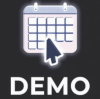
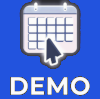
## 2.5.3
- [demo] change image preview, banner and icon

diff --git a/CHANGELOG.md b/CHANGELOG.md
@@ -1,3 +1,7 @@
+## 2.5.3
+
+- [demo] change image preview, banner and icon
+
 ## 2.5.2
 
 - [bug] remove all day event method for multi-days events
